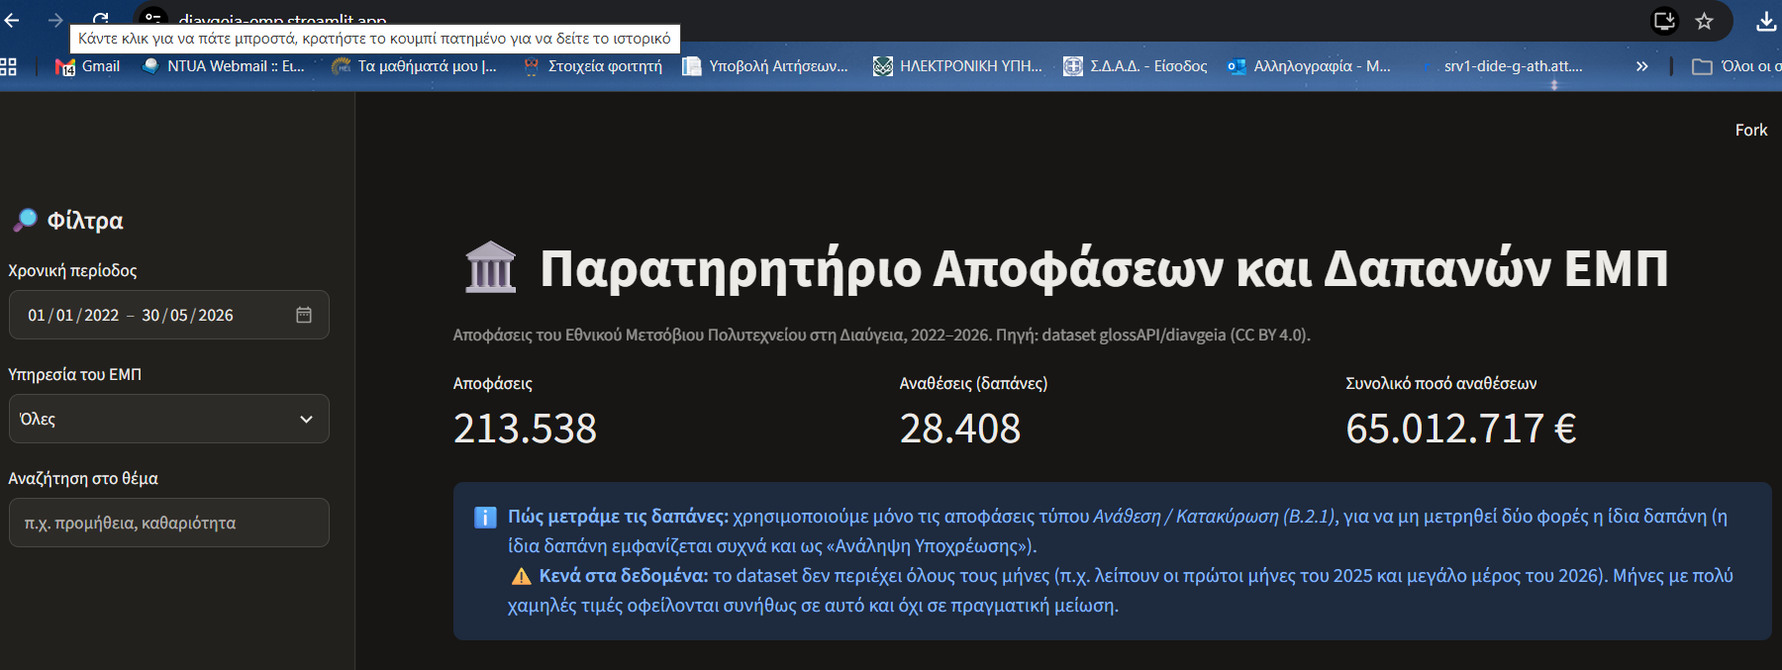
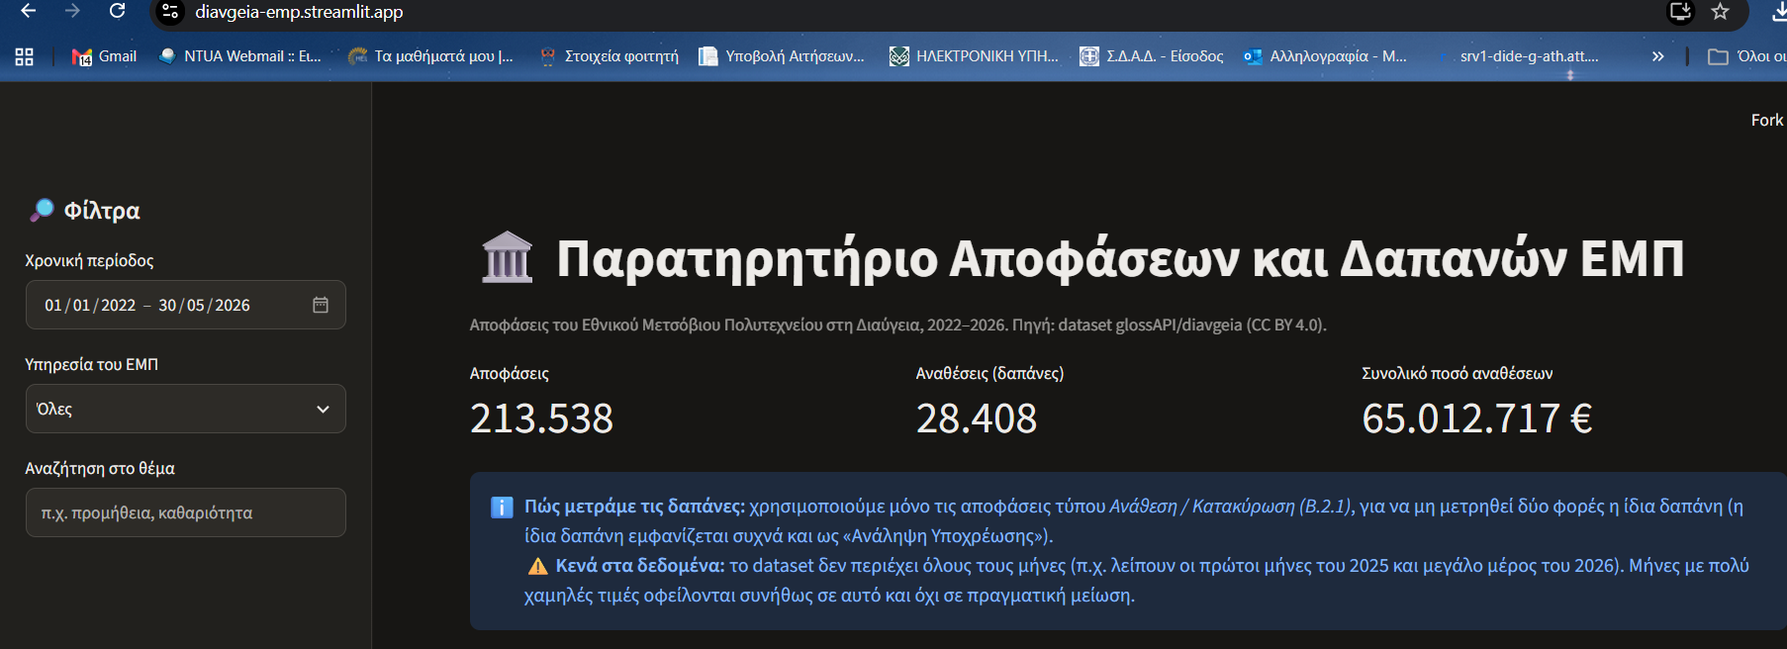
Τελικές διορθώσεις

diff --git a/prompts.md b/prompts.md
@@ -3,161 +3,101 @@
 **Εργασία:** Παρατηρητήριο Αποφάσεων και Δαπανών ΕΜΠ (Διαύγεια)
 **Μάθημα:** Σύγχρονες Διαδικτυακές Υπηρεσίες, ΔΠΜΣ Τεχνο-Οικονομικά Συστήματα, ΕΜΠ, 2026-27
 **Φοιτήτρια:** Ελένη-Δήμητρα Μπρέκη
-**Coding agent:** Claude (Anthropic), μέσω της εφαρμογής claude.ai, σε μορφή συνομιλίας
+**Coding agent:** Claude (Anthropic), μέσω της εφαρμογής claude.ai
 
-Η υλοποίηση έγινε χωρίς προηγούμενη εμπειρία προγραμματισμού. Ο agent έγραφε τον κώδικα και
-έδινε οδηγίες βήμα-βήμα. Η φοιτήτρια εκτελούσε τα βήματα, έστελνε στιγμιότυπα οθόνης με το
-αποτέλεσμα ή τα μηνύματα λάθους και ζητούσε διορθώσεις. Παρακάτω καταγράφονται τα βασικά
-prompts ανά φάση και τι παρήγαγε ο agent.
+## Τρόπος εργασίας
 
----
+Η υλοποίηση έγινε χωρίς προηγούμενη εμπειρία προγραμματισμού. Ο agent έγραφε τον κώδικα και έδινε οδηγίες
+βήμα-βήμα. Η φοιτήτρια εκτελούσε κάθε βήμα και έστελνε στιγμιότυπο οθόνης με το αποτέλεσμα ή το μήνυμα
+σφάλματος. Ο agent δοκίμαζε τον κώδικα πριν από κάθε παράδοση, με δοκιμαστικά ή πραγματικά δεδομένα.
+Η αξιολόγηση των αποτελεσμάτων έγινε από τη φοιτήτρια, με έλεγχο στην πρωτότυπη πηγή.
 
-## Φάση 0 — Σχεδιασμός και προετοιμασία (4/11/2026)
-
-**Prompt 1** (μαζί με την εκφώνηση του θέματος σε PDF):
-> «Λοιπόν έχω αυτή την εργασία. Θέλω βήμα-βήμα να μου πεις τι να κάνω για να φτιάξω την εφαρμογή.
-> Σε παρακαλώ να μου λες κάθε τι αναλυτικά γιατί δεν είμαι προγραμματιστής. [...] Θέλω λοιπόν να μου
-> πεις τι να κάνω από την αρχή μέχρι το τέλος αναλυτικά ώστε να είναι έτοιμη να την παραδώσω.»
-
-**Αποτέλεσμα:** Ο agent εξέτασε το dataset glossAPI/diavgeia στο Hugging Face και εντόπισε ότι:
-- είναι πολύ μεγάλο (εκατομμύρια αποφάσεις, δεκάδες GB) και με περιορισμένη πρόσβαση (gated),
-- λείπουν κάποιες χρονιές και μήνες.
-
-Πρότεινε σχέδιο σε 6 φάσεις και επέλεξε τα εργαλεία, όλα δωρεάν: GitHub, Hugging Face,
-Google Colab, Streamlit Community Cloud, Google Gemini.
-
-**Prompt 2:**
-> «Μου αρέσει που σου είπα βήμα βήμα και αναλυτικά!!!!!! Λοιπόν ένα ένα. Μπήκα εδώ. Τι κάνω;»
-
-**Αποτέλεσμα:** Από εδώ και πέρα ο agent έδινε **ένα βήμα κάθε φορά**, με βάση στιγμιότυπο οθόνης.
-Ακολούθησαν:
-- λογαριασμός GitHub (lena-ntua) και αίτηση στο GitHub Education για δωρεάν Copilot. Οι πρώτες
-  αιτήσεις απορρίφθηκαν. Με τη βοήθεια του agent συμπληρώθηκαν το όνομα στο προφίλ και στα
-  στοιχεία χρέωσης, ενεργοποιήθηκε η διπλή ταυτοποίηση (2FA) και επιλέχθηκε κατάλληλο
-  αποδεικτικό εγγραφής. Η αίτηση εγκρίθηκε στις 7/11/2026,
-- λογαριασμός Hugging Face, πρόσβαση στο dataset και δημιουργία token ανάγνωσης.
+Τα prompts παρατίθενται σε συνοπτική μορφή, ομαδοποιημένα ανά φάση.
 
 ---
 
-## Φάση 1 — Εξαγωγή δεδομένων στο Google Colab (7/11/2026)
+## Φάση 0 — Σχεδιασμός και προετοιμασία
 
-**Prompt:**
-> «πάμε Colab»
+**Prompt 1.** Δίνεται η εκφώνηση του θέματος (PDF) και οι γενικές οδηγίες του μαθήματος. Ζητείται
+αναλυτικό σχέδιο υλοποίησης από την αρχή μέχρι την παράδοση, σε απλή γλώσσα, για χρήστη χωρίς
+εμπειρία προγραμματισμού.
 
-**Αποτέλεσμα (κώδικας Python στο Colab, σημειωματάριο `diavgeia_emp_dedomena`):**
-1. Αναζήτηση στο ανοικτό API της Διαύγειας (`/opendata/organizations.json`) για τον κωδικό
-   του ΕΜΠ → **organizationId = 99203026**.
-2. Αποθήκευση του token του Hugging Face στα «Μυστικά» του Colab (όχι μέσα στον κώδικα).
-3. Έλεγχος της δομής του dataset: είναι χωρισμένο σε ένα αρχείο parquet ανά έτος (`data/2010.parquet` … `data/2026.parquet`).
-4. Δοκιμή σε ένα έτος (2025): ανάγνωση κομμάτι-κομμάτι, χωρίς να κατέβει όλο το αρχείο,
-   φιλτράροντας με τον κωδικό του ΕΜΠ → 32.988 αποφάσεις σε περίπου 5 λεπτά.
-5. Εξερεύνηση του πεδίου `extraFieldValues`: εκεί βρίσκονται ο ανάδοχος (όνομα, ΑΦΜ) και
-   το ποσό (`sponsor → expenseAmount`).
-6. Εξαγωγή όλης της πενταετίας 2022–2026 σε δύο αρχεία:
-   - `emp_apofaseis.parquet`: 213.538 αποφάσεις (ημερομηνία, θέμα, τύπος, υπηρεσία, ανάδοχος, ποσό),
-   - `emp_keimena.parquet`: 29.234 κείμενα αναθέσεων και συμβάσεων, για τις περιλήψεις.
+*Αποτέλεσμα:* Εξέταση του dataset glossAPI/diavgeia (μέγεθος, πρόσβαση, ελλείποντα έτη), σχέδιο σε φάσεις
+και επιλογή δωρεάν εργαλείων: GitHub, Hugging Face, Google Colab, Streamlit Community Cloud, Google Gemini.
 
-**Λάθη που λύθηκαν με τη βοήθεια του agent:**
-- Η σύνδεση με το Google Drive απέτυχε («mount failed»). Λύση: αποθήκευση μέσα στο Colab
-  και λήψη των αρχείων με το χέρι.
-- Η πρώτη αναζήτηση φορέων έβγαλε και άσχετους φορείς («ΕΜΠ» μέσα στη λέξη «ΕΜΠορικός»).
+**Prompt 2.** Ζητείται η εκτέλεση του σχεδίου ένα βήμα κάθε φορά, με βάση στιγμιότυπο της τρέχουσας οθόνης.
 
-**Παρατηρήσεις για τα δεδομένα (περιορισμοί):**
-- Λείπουν μήνες, π.χ. Ιανουάριος–Μάρτιος 2025, ενώ κάποιοι μήνες έχουν ελάχιστες αποφάσεις.
-  Το 2025 και το 2026 φαίνονται «μικρότερα» γι' αυτόν τον λόγο, όχι λόγω πραγματικής μείωσης.
-- Η ίδια δαπάνη εμφανίζεται και ως «Ανάληψη Υποχρέωσης» (Β.2.2) και ως «Ανάθεση» (Β.2.1).
-  Για να μην μετρηθεί δύο φορές, στις δαπάνες μετράμε μόνο τον τύπο Β.2.1.
+*Αποτέλεσμα:* Δημιουργία λογαριασμών GitHub και Hugging Face, αίτηση πρόσβασης στο dataset, δημιουργία
+token ανάγνωσης. Αίτηση στο GitHub Education για δωρεάν Copilot: απαιτήθηκαν συμπλήρωση ονόματος στο
+προφίλ και στα στοιχεία χρέωσης, διπλή ταυτοποίηση (2FA) και κατάλληλο αποδεικτικό εγγραφής.
 
 ---
 
-## Φάση 2 — Dashboard με Streamlit (8/11/2026)
+## Φάση 1 — Εξαγωγή δεδομένων (Google Colab)
 
-**Prompt:**
-> «Θα περιμένουμε δηλαδή 3 μέρες τώρα;» (μέχρι να ενεργοποιηθεί το Copilot)
+**Prompt 3.** Ζητείται κώδικας για το Google Colab που εντοπίζει τον κωδικό του ΕΜΠ στη Διαύγεια.
 
-**Αποτέλεσμα:** Ο agent πρότεινε να μην περιμένουμε και έγραψε την εφαρμογή:
-- `app.py`: εφαρμογή Streamlit με φίλτρα (περίοδος, υπηρεσία του ΕΜΠ, αναζήτηση στο θέμα),
-  βασικούς δείκτες, γραφήματα (δαπάνες ανά μήνα, 10 μεγαλύτεροι ανάδοχοι, αποφάσεις ανά τύπο),
-  πίνακα αναθέσεων με σύνδεσμο προς τη Διαύγεια, λήψη σε CSV και σημείωμα για τα κενά των δεδομένων,
-- `requirements.txt`: οι βιβλιοθήκες (streamlit, pandas, pyarrow, plotly).
+*Αποτέλεσμα:* Ερώτημα στο ανοικτό API της Διαύγειας (`/opendata/organizations.json`) → **organizationId 99203026**.
 
-Ο agent δοκίμασε πρώτα τον κώδικα με δοκιμαστικά δεδομένα. Μετά τα αρχεία ανέβηκαν στο GitHub
-και η εφαρμογή δημοσιεύτηκε στο Streamlit Community Cloud:
-**https://diavgeia-emp.streamlit.app**
+**Prompt 4.** Ζητείται κώδικας που διαβάζει το dataset χωρίς να το κατεβάζει ολόκληρο και κρατά μόνο τις
+αποφάσεις του ΕΜΠ.
 
-**Δοκιμή από τη φοιτήτρια και διόρθωση:**
-> Αναζήτηση «ΚΑΘΑΡΙΟΤΗΤΑ» → 23 αποφάσεις.
+*Αποτέλεσμα:*
+- Αποθήκευση του token στα «Μυστικά» του Colab (όχι μέσα στον κώδικα).
+- Έλεγχος δομής: ένα αρχείο parquet ανά έτος.
+- Δοκιμή σε ένα έτος (2025): 32.988 αποφάσεις σε περίπου 5 λεπτά.
+- Εντοπισμός ποσού και αναδόχου στο πεδίο `extraFieldValues` (`sponsor → expenseAmount`, `sponsorAFMName`).
+- Εξαγωγή 2022–2026: `emp_apofaseis.parquet` (213.538 αποφάσεις) και `emp_keimena.parquet` (29.234 κείμενα).
 
-Ο agent παρατήρησε ότι η αναζήτηση με κεφαλαία δεν έβρισκε τα θέματα γραμμένα με μικρά και τόνους,
-και διόρθωσε τον κώδικα ώστε να αγνοεί τόνους και κεφαλαία → **57 αποφάσεις**.
+**Σφάλμα:** αποτυχία σύνδεσης με το Google Drive («mount failed»). *Λύση:* αποθήκευση μέσα στο Colab
+και λήψη των αρχείων χειροκίνητα.
 
-**Εύρημα για την αξιολόγηση:** σε μία απόφαση καθαριότητας, το PDF της Διαύγειας γράφει
-130.603,36 €, ενώ η εφαρμογή δείχνει 122.027,45 €. Θα εξεταστεί αν πρόκειται για ποσό
-χωρίς ΦΠΑ ή για κρατήσεις.
-
-**Prompt για την καταγραφή:**
-> «ΕΠΕΙΔΗ ΑΥΤΟ ΜΟΥ ΤΟ ΛΕΣ ΣΥΝΕΧΕΙΑ.....ΑΛΛΑ ΕΓΩ ΔΕΝ ΕΧΩ ΚΑΝΕΙ ΤΙΠΟΤΑ.... ΠΟΥ ΝΑ ΤΑ ΓΡΑΦΩ;»
-
-**Αποτέλεσμα:** Ο agent συνέταξε το παρόν αρχείο (`prompts.md`) από το ιστορικό της συνομιλίας.
-Το αρχείο ενημερώνεται στο τέλος κάθε ημέρας εργασίας με το prompt «ενημέρωσε το prompts.md».
+**Παρατηρήσεις για τα δεδομένα:** λείπουν μήνες (π.χ. Ιανουάριος–Μάρτιος 2025). Η ίδια δαπάνη εμφανίζεται
+ως «Ανάληψη Υποχρέωσης» (Β.2.2) και ως «Ανάθεση» (Β.2.1), οπότε στις δαπάνες μετράται μόνο ο τύπος Β.2.1.
 
 ---
 
-## Φάση 3 — Περιλήψεις σε απλή γλώσσα με LLM (8/11/2026, απόγευμα)
+## Φάση 2 — Dashboard (Streamlit)
 
-**Prompt:**
-> «Ωραία... Συνεχίζουμε.... πάμε LLM»
+**Prompt 5.** Ζητείται εφαρμογή που δημοσιεύεται online χωρίς εγκατάσταση λογισμικού στον υπολογιστή.
 
-**Αποτέλεσμα:**
-1. Δημιουργία δωρεάν κλειδιού API στο Google AI Studio (Free tier, χωρίς κάρτα).
-   Διαθέσιμο μοντέλο: **Gemini 3.8 Flash** (`gemini-3.8-flash`).
-2. Το κλειδί αποθηκεύτηκε στα **Secrets** του Streamlit Cloud (`GEMINI_API_KEY`) και όχι στο
-   GitHub, γιατί το repository είναι δημόσιο.
-3. Ο agent πρόσθεσε στο `app.py` νέα ενότητα «Περίληψη απόφασης σε απλή γλώσσα»:
-   - ο χρήστης επιλέγει μία από τις (έως 500) μεγαλύτερες αναθέσεις, με βάση τα φίλτρα,
-   - το κείμενο της απόφασης (από το `emp_keimena.parquet`) στέλνεται στο Gemini με οδηγίες
-     να γράψει 3–4 απλές προτάσεις: τι αποφασίστηκε, ποιος πληρώνεται, πόσα, για ποιο σκοπό,
-     **χρησιμοποιώντας μόνο πληροφορίες του κειμένου**,
-   - εμφανίζεται προειδοποίηση ότι η περίληψη είναι αυτόματη και μπορεί να έχει λάθη,
-   - οι περιλήψεις κρατιούνται (cache) για μία εβδομάδα, για να μην ξοδεύεται το δωρεάν όριο.
-4. Ανέβηκαν στο GitHub τα νέα `app.py` και `requirements.txt` (+ `requests`) και το `emp_keimena.parquet`.
+*Αποτέλεσμα:* `app.py` (Streamlit) και `requirements.txt`, με φίλτρα (περίοδος, υπηρεσία, λέξη στο θέμα),
+βασικούς δείκτες, γραφήματα (ανά μήνα, μεγαλύτεροι ανάδοχοι, τύποι αποφάσεων), πίνακα αναθέσεων με
+σύνδεσμο στη Διαύγεια και λήψη CSV. Ανέβασμα στο GitHub από τον browser και δημοσίευση στο
+Streamlit Community Cloud: **https://diavgeia-emp.streamlit.app**
 
-**Λάθος και διόρθωση:**
-> Στιγμιότυπο με μήνυμα «503 Server Error: Service Unavailable» — «τι έκανα λάθος;»
+**Prompt 6.** Αναφέρεται ότι η αναζήτηση της λέξης «ΚΑΘΑΡΙΟΤΗΤΑ» επιστρέφει 23 αποφάσεις.
 
-Ο agent εξήγησε ότι δεν ήταν λάθος της χρήστριας αλλά φόρτος στους servers της Google.
-Πρόσθεσε στον κώδικα αυτόματη επανάληψη (2 προσπάθειες ανά μοντέλο, με αναμονή) και
-εναλλακτικά μοντέλα (`gemini-flash-latest`, `gemini-flash-lite-latest`). Η αλλαγή δοκιμάστηκε
-πρώτα με προσομοιωμένες απαντήσεις 503. Μετά την ενημέρωση η περίληψη λειτούργησε.
-
-**Πρώτη περίληψη (παράδειγμα):** απόφαση 28/09/2022, εντολή πληρωμής 622.527 € προς CLIMASHOP IKE.
-Το Gemini έγραψε ότι εγκρίθηκε πληρωμή 622.527,12 € **με ΦΠΑ** για προμήθεια και εγκατάσταση
-κεντρικών κλιματιστικών μονάδων σε κτίρια της Πολυτεχνειούπολης Ζωγράφου.
-Η αναφορά στον ΦΠΑ πιθανόν εξηγεί τη διαφορά ποσού που εντοπίστηκε στη Φάση 2 (θα ελεγχθεί στην αξιολόγηση).
+*Αποτέλεσμα:* Η αναζήτηση διορθώθηκε ώστε να αγνοεί τόνους και κεφαλαία → 57 αποφάσεις.
 
 ---
 
-## Φάση 4 — Αξιολόγηση, διορθώσεις, τεκμηρίωση, παρουσίαση (9–11/11/2026)
+## Φάση 3 — Περιλήψεις με LLM (Google Gemini)
 
-**Prompt:**
-> «Καλησπέρα. Έτοιμη για σήμερα...πάμε στο επόμενο βήμα»
+**Prompt 7.** Ζητείται περίληψη κάθε απόφασης σε απλή γλώσσα με δωρεάν μοντέλο.
 
-**Αποτέλεσμα:**
-- Ο agent διάβασε τα πραγματικά δεδομένα από το δημόσιο repository και έφτιαξε τον πίνακα
-  `axiologisi_20_apofaseis.xlsx`: 20 τυχαίες αναθέσεις (4 ανά έτος, σταθερό seed), στήλες για το ποσό στη
-  Διαύγεια, τον ανάδοχο και τον βαθμό περίληψης, μαζί με αυτόματη σύνοψη.
-- Επειδή πολλές από τις 20 αναθέσεις ήταν μικρές και δεν εμφανίζονταν στη λίστα περίληψης
-  (μόνο οι 500 μεγαλύτερες), πρόσθεσε στην εφαρμογή **αναζήτηση με ΑΔΑ**.
-- Κατά τον έλεγχο των δεδομένων εντόπισε ότι ο μήνας-κορυφή (Δεκέμβριος 2022) οφείλεται σε λογαριασμό
-  ρεύματος της ΔΕΗ 1,9 εκατ. € (όχι σε λάθος), και ότι ο ίδιος ανάδοχος γράφεται με διαφορετικά ονόματα.
+*Αποτέλεσμα:*
+- Δωρεάν κλειδί API από το Google AI Studio (μοντέλο `gemini-3.8-flash`), αποθηκευμένο στα Secrets του
+  Streamlit και όχι στο δημόσιο repository.
+- Οδηγία προς το μοντέλο: 3–4 προτάσεις για το τι αποφασίστηκε, ποιος πληρώνεται, πόσα και για ποιο σκοπό,
+  **μόνο** με πληροφορίες του κειμένου.
+- Προειδοποίηση κάτω από κάθε περίληψη ότι δημιουργήθηκε αυτόματα. Αποθήκευση περιλήψεων για μία εβδομάδα (cache).
 
-**Prompt:**
-> «Δηλαδή [...] Στο 1-5 θα βαθμολογώ αν η περίληψη είναι σωστή; Και πως θα ξέρω ότι είναι 2 ή 3 ή 5;»
+**Σφάλμα:** «503 Service Unavailable» (φόρτος της υπηρεσίας Gemini). *Λύση:* αυτόματη επανάληψη με
+αναμονή και εναλλακτικά μοντέλα Flash.
 
-**Αποτέλεσμα:** κλίμακα βαθμολόγησης με βάση τέσσερα στοιχεία (τι, ποιος, πόσα, για ποιο σκοπό).
-Κανόνας: λανθασμένη πληροφορία = 2 ή 1, ακόμα κι αν τα υπόλοιπα είναι σωστά.
+---
 
-**Η αξιολόγηση έγινε από τη φοιτήτρια** (έλεγχος κάθε απόφασης στη Διαύγεια):
+## Φάση 4 — Αξιολόγηση, διορθώσεις, τεκμηρίωση, παρουσίαση
+
+**Prompt 8.** Ζητείται τρόπος αξιολόγησης της εφαρμογής σε δείγμα και σαφή κριτήρια βαθμολόγησης των περιλήψεων.
+
+*Αποτέλεσμα:*
+- Πίνακας `axiologisi_20_apofaseis.xlsx`: 20 τυχαίες αναθέσεις (4 ανά έτος), με αυτόματη σύνοψη.
+- Κλίμακα 1–5 με βάση τα τέσσερα στοιχεία (τι, ποιος, πόσα, σκοπός). Λανθασμένη πληροφορία = 2 ή 1.
+- Αναζήτηση με ΑΔΑ στην εφαρμογή, για τις αναθέσεις που δεν εμφανίζονται στη λίστα περίληψης.
+
+**Αποτελέσματα αξιολόγησης** (έλεγχος κάθε απόφασης στη Διαύγεια από τη φοιτήτρια):
 
 | Τι ελέγχθηκε | Αποτέλεσμα |
 |---|---|
@@ -165,27 +105,15 @@ Google Colab, Streamlit Community Cloud, Google Gemini.
 | Σωστός ανάδοχος | 20 / 20 (100%) |
 | Ποιότητα περίληψης | 4,95 / 5 |
 
-**Prompt:**
-> «Καλησπέρα. Τελείωσα με τον πίνακα. Τι κάνουμε τώρα;» (μαζί με τον συμπληρωμένο πίνακα)
+**Prompt 9.** Δίνεται ο συμπληρωμένος πίνακας και ζητούνται οι τελικές διορθώσεις και η τεκμηρίωση.
 
-**Αποτέλεσμα:**
-1. **Διορθώσεις στην εφαρμογή:** ένωση αναδόχων με βάση τον ΑΦΜ (κρατιέται το πιο συχνό όνομα),
-   διακόπτης «Χωρίς φόρους και εισφορές (ΔΟΥ, ΕΦΚΑ)» στο γράφημα των 10 μεγαλύτερων αναδόχων
-   (περίπου 1,9 εκατ. € σε ΔΟΥ/ΕΦΚΑ), αγνόηση ονομάτων-«παύλες» («---»), σύνδεσμος στη σελίδα
-   της απόφασης στη Διαύγεια αντί για λήψη PDF, και ενότητα «Σχετικά» με τα αποτελέσματα της αξιολόγησης.
-   Σε μια πρώτη δοκιμή ο κανόνας για τα ονόματα-«παύλες» έκρυβε κατά λάθος μεγάλους αναδόχους
-   (π.χ. «Δ.Ε.Η.»). Ο agent το εντόπισε στον έλεγχο και το διόρθωσε πριν την παράδοση.
-2. **README.md** (περιγραφή, δεδομένα, αρχιτεκτονική, επιλογές υπολογισμού, αξιολόγηση, περιορισμοί)
-   και **USER_GUIDE.md** (οδηγός χρήσης με στιγμιότυπα).
-3. **Παρουσίαση** 12 διαφανειών με σημειώσεις ομιλητή.
+*Αποτέλεσμα:*
+- Ένωση αναδόχων με βάση τον ΑΦΜ, εξαίρεση ΔΟΥ/ΕΦΚΑ από τους μεγαλύτερους αναδόχους (διακόπτης),
+  ενότητα «Σχετικά» με τα αποτελέσματα της αξιολόγησης.
+- `README.md`, `USER_GUIDE.md` και παρουσίαση με σημειώσεις ομιλητή.
 
----
+**Prompt 10.** Ζητείται η ενσωμάτωση στιγμιότυπων της εφαρμογής στην παρουσίαση, η διόρθωση χαρακτήρων
+που δεν εμφανίζονταν σωστά και ουδέτερο ύφος στην καταγραφή των prompts.
 
-## Σύνοψη τρόπου εργασίας
-
-- Ο agent έγραφε όλον τον κώδικα. Η φοιτήτρια εκτελούσε τα βήματα, έλεγχε τα αποτελέσματα και αποφάσιζε.
-- Η πιο αποτελεσματική τεχνική: **ένα βήμα κάθε φορά + στιγμιότυπο οθόνης** μετά από κάθε βήμα,
-  ιδίως με τα μηνύματα λάθους.
-- Πριν από κάθε παράδοση κώδικα ο agent τον δοκίμαζε (με δοκιμαστικά ή πραγματικά δεδομένα και
-  προσομοίωση των απαντήσεων του Gemini).
-- Η αξιολόγηση έγινε από άνθρωπο, με έλεγχο στην πρωτότυπη πηγή.
+*Αποτέλεσμα:* Στιγμιότυπα στις διαφάνειες, αλλαγή σε γραμματοσειρές με πλήρη υποστήριξη ελληνικών,
+αναδιατύπωση του παρόντος αρχείου.
